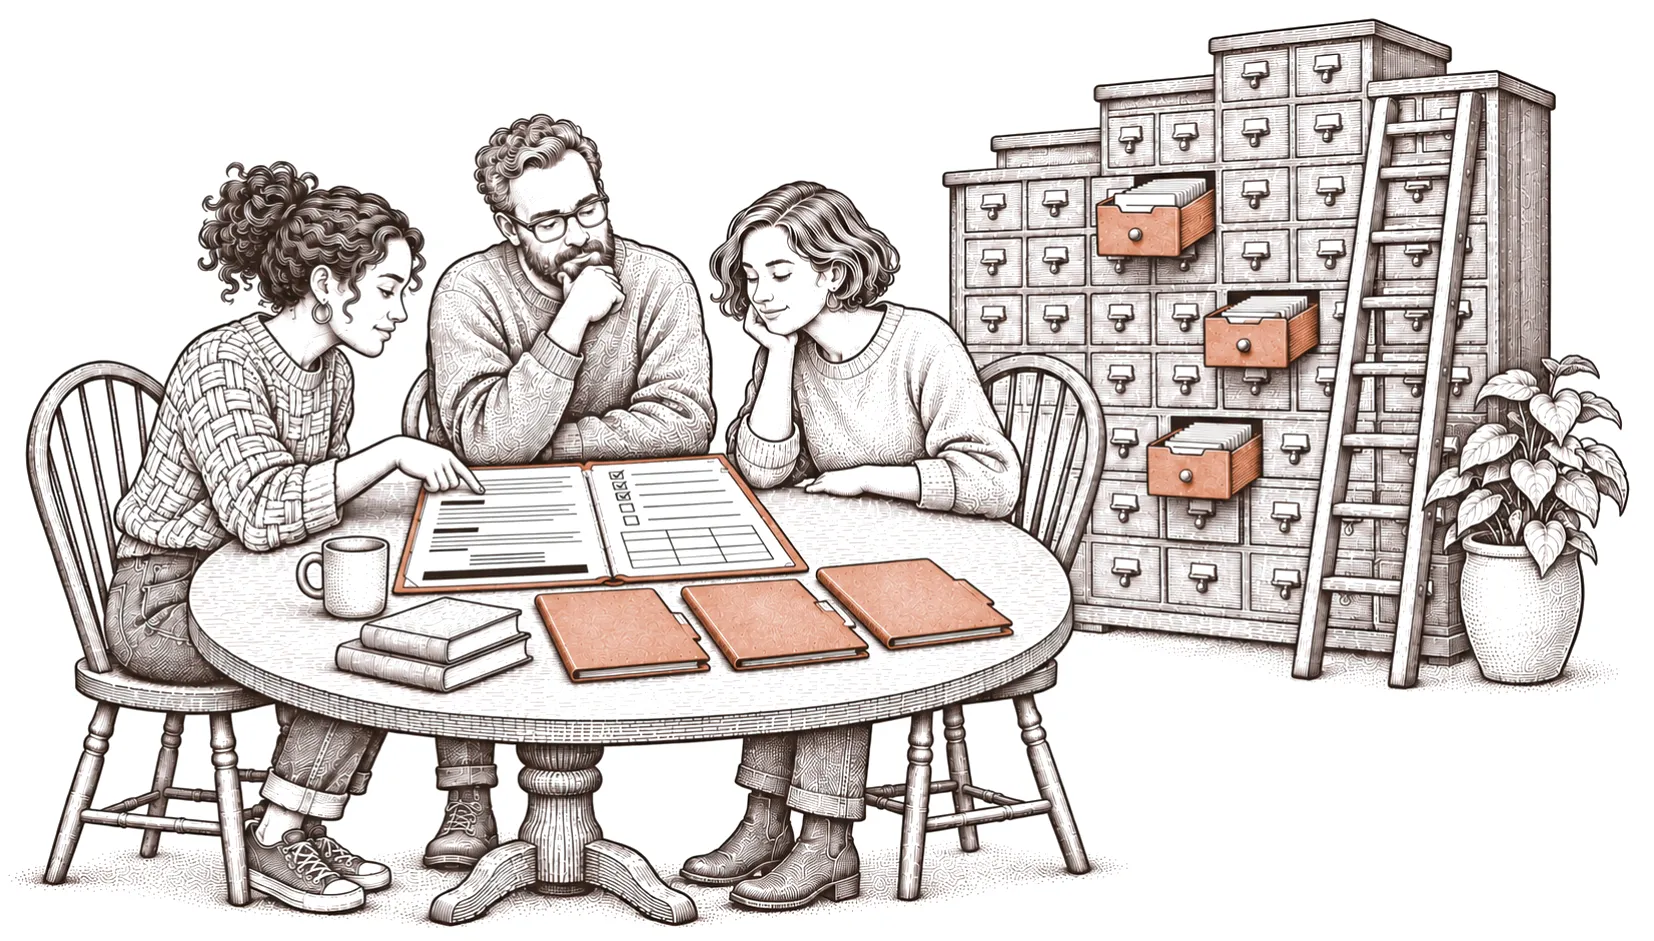
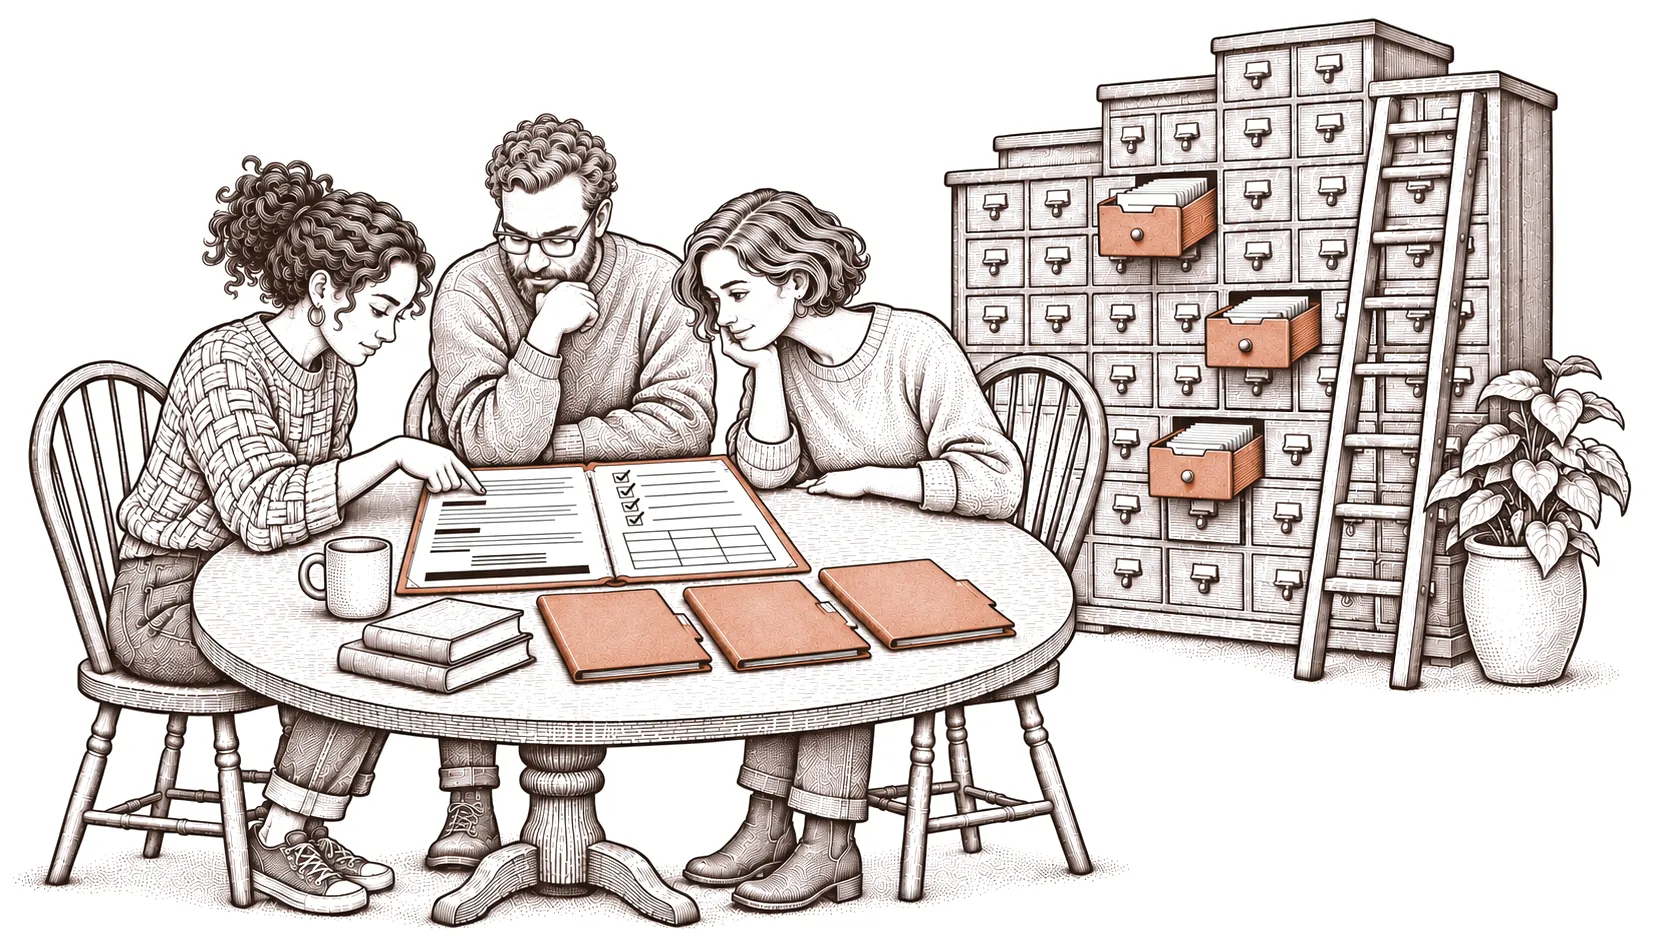
Writing: Lesson 7's three readers look at the page she points to
The hero is an edit of itself. All three people now look at the left-hand
page of the open folder, where the woman on the left is pointing; the man
had been reading the right-hand page and the woman on the right had her
eyes closed. The tick list's check marks read the right way up. Nothing
else in the drawing moved.

The file's width, height, and ?v=5 move with it, and the manifest.

Changed region(s): [[0.0, 0.0308, 0.9867, 0.9862]]

diff --git a/writing/what-does-a-requirements-doc-need-once-the-product-is-ai.html b/writing/what-does-a-requirements-doc-need-once-the-product-is-ai.html
@@ -274,7 +274,7 @@
           <p class="build-dek">Everything a good one already has, plus a plan for judging output that changes every time: the cases it must handle, the ones it must refuse, and the bar it has to clear before launch. The problem still goes on page one. The evaluation plan goes in before anyone writes a prompt.</p>
           </div>
           <figure class="shift-hero-figure">
-            <img class="shift-hero-art" src="../img/writing/shift/narrative-ink/chapter-3/chapter3-lesson7-hero.webp?v=4" width="1654" height="941" alt="" decoding="async" />
+            <img class="shift-hero-art" src="../img/writing/shift/narrative-ink/chapter-3/chapter3-lesson7-hero.webp?v=5" width="1656" height="942" alt="" decoding="async" />
             <figcaption class="shift-hero-caption">The requirements doc is one page. The cases the product has to get right fill the cabinet behind it.</figcaption>
           </figure>
         </div>

diff --git a/writing/NARRATIVE_INK_MANIFEST.md b/writing/NARRATIVE_INK_MANIFEST.md
@@ -94,7 +94,7 @@ is. Only the drawings in the rows below change.
 
 | Picture | Slot | Now | Level and export | Status | Alt |
 | --- | --- | --- | --- | --- | --- |
-| `chapter3-lesson7-hero.webp` | shift-hero-art | 1654x941, 269 KB | A panorama: free-standing, cut to its ink by bleed --trim, paper lifted to white | narrative-ink | `""`<br>*empty: the title beside it says what the lesson is* |
+| `chapter3-lesson7-hero.webp` | shift-hero-art | 1656x942, 299 KB | A panorama: free-standing, cut to its ink by bleed --trim, paper lifted to white | narrative-ink | `""`<br>*empty: the title beside it says what the lesson is* |
 | `chapter3-icon-discovery.webp` | shift-stack-art | 256x256, 24 KB | C icon: 512x512 source, 256x256 web, alpha | narrative-ink | `""`<br>*empty: the row names it* |
 | `chapter3-icon-design-doc.webp` | shift-stack-art | 256x256, 27 KB | C icon: 512x512 source, 256x256 web, alpha | narrative-ink | `""`<br>*empty: the row names it* |
 | `chapter3-icon-develop.webp` | shift-stack-art | 256x256, 33 KB | C icon: 512x512 source, 256x256 web, alpha | narrative-ink | `""`<br>*empty: the row names it* |
